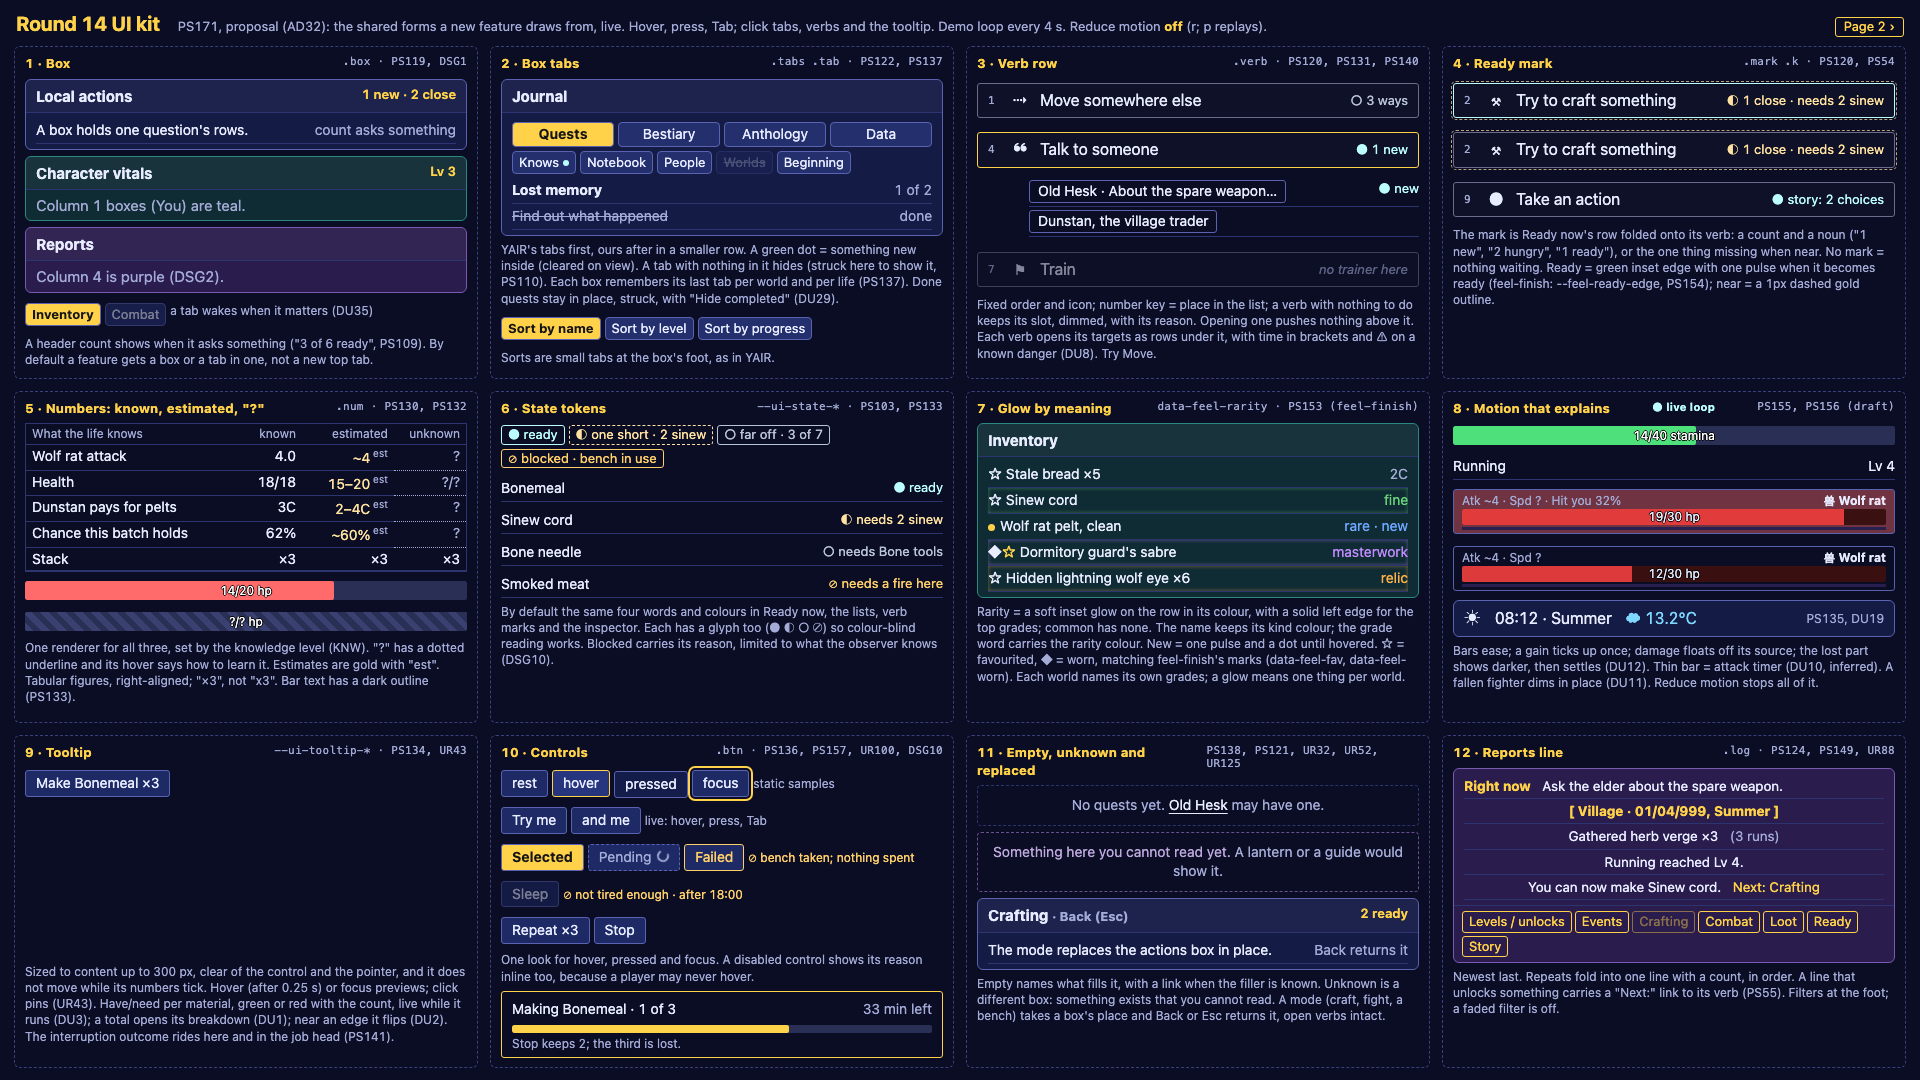
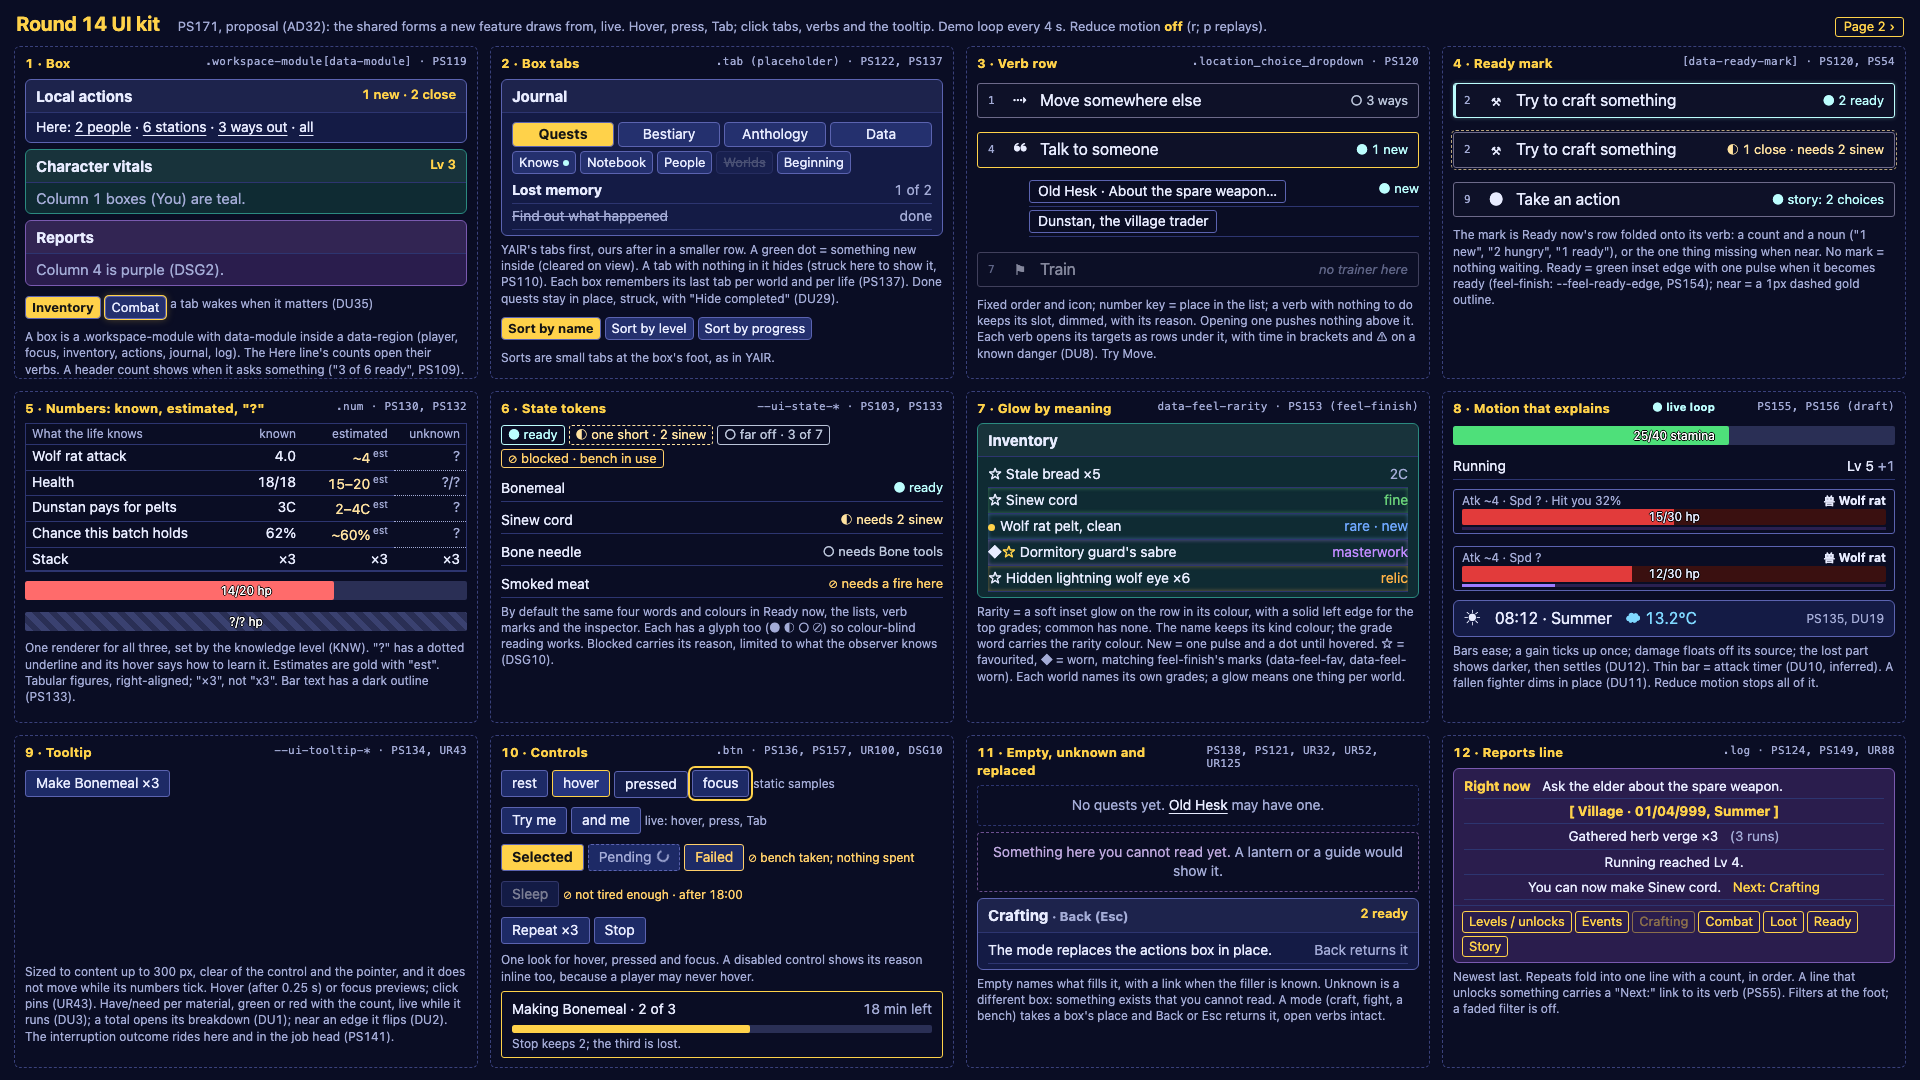
UI kit uses ui-cohesion's names: .workspace-module[data-module] in data-region, .location_choice_dropdown verb rows with data-ready-mark drawn as ::after, .nearby-here-line with data-here-link, .here-chip; box tabs stay a placeholder until slice 4

diff --git a/prototypes/ui-kit-2026-11-15/index.html b/prototypes/ui-kit-2026-11-15/index.html
@@ -49,6 +49,14 @@ main { position:absolute; top:46px; left:14px; right:14px; bottom:12px; display:
 .verb.open { border-color:var(--gold); }
 .verb.dim { opacity:.55; } .verb.dim .mark { color:var(--muted); font-style:italic; }
 .sub { margin:-1px 0 5px 52px; } .act { border:1px solid var(--line); border-radius:3px; padding:1px 8px; }
+/* ui-cohesion's real names (2026-11-15): a verb row is .location_choice_dropdown plus .choice_<verb>; open adds
+   .location_choice_dropdown_expanded; the mark is data-ready-mark with data-ready-mark-state, drawn as ::after. */
+.location_choice_dropdown[data-ready-mark]::after { content:attr(data-ready-mark); margin-left:auto; font-size:13px; }
+.location_choice_dropdown[data-ready-mark-state="ready"]::after { color:var(--k-ready); content:"● " attr(data-ready-mark); }
+.location_choice_dropdown[data-ready-mark-state="near"]::after { color:var(--k-near); content:"◐ " attr(data-ready-mark); }
+.location_choice_dropdown[data-ready-mark-state="far"]::after { color:var(--k-far); content:"○ " attr(data-ready-mark); }
+.location_choice_dropdown[data-ready-mark-state="reason"]::after { color:var(--muted); font-style:italic; }
+.nearby-here-line { font-size:14px; } .nearby-here-line button { font:inherit; color:var(--text); background:none; border:0; padding:0; text-decoration:underline; text-underline-offset:3px; cursor:pointer; }
 /* Ready marks and state tokens (PS103, PS133): word and colour together, so colour is not the sole signal. */
 .k { font-size:13px; } .k.ready { color:var(--k-ready); } .k.near { color:var(--k-near); } .k.far { color:var(--k-far); } .k.blocked { color:var(--k-blocked); }
 .k.ready::before { content:"● "; } .k.near::before { content:"◐ "; } .k.far::before { content:"○ "; } .k.blocked::before { content:"⊘ "; }
@@ -161,15 +169,15 @@ main[hidden] { display:none; } .pager { margin-left:auto; color:var(--gold); bor
 <header><h1>Round 14 UI kit</h1><span>PS171, proposal (AD32): the shared forms a new feature draws from, live. Hover, press, Tab; click tabs, verbs and the tooltip. Demo loop every 4 s. Reduce motion <b id="rmstate">off</b> (r; p replays).</span><span class="pager" id="pager" tabindex="0">Page 2 ›</span></header>
 <main id="p1">
 
-<section class="cell"><h2>1 · Box <code>.box · PS119, DSG1</code></h2>
-  <div class="box"><h3><span>Local actions</span><small>1 new · 2 close</small></h3><div class="body"><div class="row"><span>A box holds one question's rows.</span><span class="m">count asks something</span></div></div></div>
-  <div class="box teal"><h3><span>Character vitals</span><small>Lv 3</small></h3><div class="body m">Column 1 boxes (You) are teal.</div></div>
-  <div class="box rep"><h3><span>Reports</span><small></small></h3><div class="body m">Column 4 is purple (DSG2).</div></div>
+<section class="cell"><h2>1 · Box <code>.workspace-module[data-module] · PS119</code></h2>
+  <div data-region="actions"><div class="box workspace-module" data-module="location_actions"><h3><span>Local actions</span><small>1 new · 2 close</small></h3><div class="body"><div class="nearby-here-line">Here: <button data-here-link="people">2 people</button> · <button data-here-link="services">6 stations</button> · <button data-here-link="exits">3 ways out</button> · <button data-here-link="all">all</button></div></div></div></div>
+  <div class="box teal workspace-module" data-module="player" data-region="player"><h3><span>Character vitals</span><small>Lv 3</small></h3><div class="body m">Column 1 boxes (You) are teal.</div></div>
+  <div class="box rep workspace-module" data-module="log" data-region="log"><h3><span>Reports</span><small></small></h3><div class="body m">Column 4 is purple (DSG2).</div></div>
   <div class="tabs"><span class="tab sm on">Inventory</span><span class="tab sm wake" id="wakeTab">Combat</span><span class="m" style="font-size:12px">a tab wakes when it matters (DU35)</span></div>
-  <div class="cap">A header count shows when it asks something ("3 of 6 ready", PS109). By default a feature gets a box or a tab in one, not a new top tab.</div>
+  <div class="cap">A box is a .workspace-module with data-module inside a data-region (player, focus, inventory, actions, journal, log). The Here line's counts open their verbs. A header count shows when it asks something ("3 of 6 ready", PS109). By default a feature gets a box or a tab in one, not a new top tab.</div>
 </section>
 
-<section class="cell"><h2>2 · Box tabs <code>.tabs .tab · PS122, PS137</code></h2>
+<section class="cell"><h2>2 · Box tabs <code>.tab (placeholder) · PS122, PS137</code></h2>
   <div class="box"><h3><span>Journal</span><small></small></h3><div class="body">
     <div class="tabs" data-tabs="j"><span class="tab on" tabindex="0" data-t="q">Quests</span><span class="tab" tabindex="0" data-t="b">Bestiary</span><span class="tab" tabindex="0" data-t="a">Anthology</span><span class="tab" tabindex="0" data-t="d">Data</span></div>
     <div class="tabs" data-tabs="j"><span class="tab sm" tabindex="0" data-t="k">Knows<span class="dot"></span></span><span class="tab sm" tabindex="0" data-t="n">Notebook</span><span class="tab sm" tabindex="0" data-t="p">People</span><span class="tab sm hidden">Worlds</span><span class="tab sm" tabindex="0" data-t="g">Beginning</span></div>
@@ -187,19 +195,19 @@ main[hidden] { display:none; } .pager { margin-left:auto; color:var(--gold); bor
   <div class="cap">Sorts are small tabs at the box's foot, as in YAIR.</div>
 </section>
 
-<section class="cell"><h2>3 · Verb row <code>.verb · PS120, PS131, PS140</code></h2>
-  <div class="verb" tabindex="0" data-open="mv"><span class="key">1</span><span class="ic">⇢</span><span>Move somewhere else</span><span class="mark k far">3 ways</span></div>
+<section class="cell"><h2>3 · Verb row <code>.location_choice_dropdown · PS120</code></h2>
+  <div class="location_choice_dropdown choice_move verb" tabindex="0" data-open="mv" data-ready-mark="3 ways" data-ready-mark-state="far"><span class="key">1</span><span class="ic">⇢</span><span>Move somewhere else</span></div>
   <div class="sub" data-sub="mv" hidden><div class="row"><span class="act" tabindex="0">Infested field <span class="danger" title="Wolf rats seen here">⚠</span></span><span class="m">[15 min]</span></div><div class="row"><span class="act" tabindex="0">Tingen</span><span class="m">[crossing]</span></div></div>
-  <div class="verb open" tabindex="0" data-open="tk"><span class="key">4</span><span class="ic">❝</span><span>Talk to someone</span><span class="mark k ready">1 new</span></div>
+  <div class="location_choice_dropdown choice_talk verb open location_choice_dropdown_expanded" tabindex="0" data-open="tk" data-ready-mark="1 new" data-ready-mark-state="ready"><span class="key">4</span><span class="ic">❝</span><span>Talk to someone</span></div>
   <div class="sub" data-sub="tk"><div class="row"><span class="act" tabindex="0">Old Hesk · About the spare weapon…</span><span class="k ready">new</span></div><div class="row"><span class="act" tabindex="0">Dunstan, the village trader</span><span class="m"></span></div></div>
-  <div class="verb dim" tabindex="0" aria-disabled="true"><span class="key">7</span><span class="ic">⚑</span><span>Train</span><span class="mark">no trainer here</span></div>
+  <div class="location_choice_dropdown choice_train verb dim" tabindex="0" aria-disabled="true" data-ready-mark="no trainer here" data-ready-mark-state="reason"><span class="key">7</span><span class="ic">⚑</span><span>Train</span></div>
   <div class="cap">Fixed order and icon; number key = place in the list; a verb with nothing to do keeps its slot, dimmed, with its reason. Opening one pushes nothing above it. Each verb opens its targets as rows under it, with time in brackets and ⚠ on a known danger (DU8). Try Move.</div>
 </section>
 
-<section class="cell"><h2>4 · Ready mark <code>.mark .k · PS120, PS54</code></h2>
-  <div class="verb ready" id="pulseA" tabindex="0"><span class="key">2</span><span class="ic">⚒</span><span>Try to craft something</span><span class="mark k ready" id="readyMark">2 ready</span></div>
-  <div class="verb near"><span class="key">2</span><span class="ic">⚒</span><span>Try to craft something</span><span class="mark k near">1 close · needs 2 sinew</span></div>
-  <div class="verb"><span class="key">9</span><span class="ic">●</span><span>Take an action</span><span class="mark k ready">story: 2 choices</span></div>
+<section class="cell"><h2>4 · Ready mark <code>[data-ready-mark] · PS120, PS54</code></h2>
+  <div class="location_choice_dropdown choice_craft verb ready" id="pulseA" tabindex="0" data-ready-mark="2 ready" data-ready-mark-state="ready"><span class="key">2</span><span class="ic">⚒</span><span>Try to craft something</span></div>
+  <div class="location_choice_dropdown choice_craft verb near" data-ready-mark="1 close · needs 2 sinew" data-ready-mark-state="near"><span class="key">2</span><span class="ic">⚒</span><span>Try to craft something</span></div>
+  <div class="location_choice_dropdown choice_action verb" data-ready-mark="story: 2 choices" data-ready-mark-state="ready"><span class="key">9</span><span class="ic">●</span><span>Take an action</span></div>
   <div class="cap">The mark is Ready now's row folded onto its verb: a count and a noun ("1 new", "2 hungry", "1 ready"), or the one thing missing when near. No mark = nothing waiting. Ready = green inset edge with one pulse when it becomes ready (feel-finish: --feel-ready-edge, PS154); near = a 1px dashed gold outline.</div>
 </section>
 
@@ -216,7 +224,7 @@ main[hidden] { display:none; } .pager { margin-left:auto; color:var(--gold); bor
 </section>
 
 <section class="cell"><h2>6 · State tokens <code>--ui-state-* · PS103, PS133</code></h2>
-  <div><span class="chip k ready">ready</span><span class="chip k near">one short · 2 sinew</span><span class="chip k far">far off · 3 of 7</span><span class="chip k blocked">blocked · bench in use</span></div>
+  <div><span class="chip here-chip k ready">ready</span><span class="chip here-chip k near">one short · 2 sinew</span><span class="chip here-chip k far">far off · 3 of 7</span><span class="chip here-chip k blocked">blocked · bench in use</span></div>
   <div class="row"><span>Bonemeal</span><span class="k ready">ready</span></div>
   <div class="row"><span>Sinew cord</span><span class="k near">needs 2 sinew</span></div>
   <div class="row"><span>Bone needle</span><span class="k far">needs Bone tools</span></div>
@@ -356,7 +364,7 @@ function beat() {
   step++;
   const ready = step % 2 === 1, v = $('pulseA');                       // near -> ready, then back (PS154)
   v.classList.toggle('ready', ready); v.classList.toggle('near', !ready);
-  $('readyMark').className = 'mark k ' + (ready ? 'ready' : 'near'); $('readyMark').textContent = ready ? '2 ready' : '1 close · needs 2 sinew';
+  v.dataset.readyMarkState = ready ? 'ready' : 'near'; v.dataset.readyMark = ready ? '2 ready' : '1 close · needs 2 sinew';
   if (ready) restart(v, 'became');
   $('haveN').textContent = 68 - (step % 4) * 6;
   restart($('pulseB'), 'isnew');                                       // a new item pulses once (PS153)

diff --git a/prototypes/ui-kit-2026-11-15/README.md b/prototypes/ui-kit-2026-11-15/README.md
@@ -18,6 +18,13 @@ It links `styles/ui_tokens.css` for the PS103 state tokens and the tooltip fill.
 Sources: rounds 14 to 16 in the [play surface considerations](../../docs/gm/dispatch/play-surface-2026-11-14/CONSIDERATIONS.md) (PS103, PS109, PS119 to PS157) and the [Discord UI elements review](../../docs/research/yair-upstream/DISCORD_UI_ELEMENTS_REVIEW_2026-11-15.md). Folded in from that review: DU1, DU2, DU3, DU8, DU10, DU11, DU12, DU19, DU20, DU29 and DU35. UI_RULES codes cited: UR32, UR43, UR52, UR100 and UR125.
 
 Open points:
-- Class names (`.box`, `.tab`, `.verb`, `.mark`, `.num`, `.k`) are the mock's. They change to match the frame ui-cohesion builds.
+- Names follow ui-cohesion's frame:
+  - a box is `.workspace-module[data-module]` inside `[data-region]`;
+  - a verb row is `.location_choice_dropdown.choice_<verb>`, with `.location_choice_dropdown_expanded` when open;
+  - the mark is `data-ready-mark` and `data-ready-mark-state`, drawn as `::after`;
+  - the Here line is `.nearby-here-line` with `[data-here-link]` buttons;
+  - chips are `.here-chip`.
+
+  Box tabs stay `.tab` as a placeholder until slice 4 names them. The mock's `.box` and `.verb` classes remain alongside for styling.
 - Glow and motion (cells 4, 7 and 8) follow feel-finish's settled names and link `styles/feel_finish.css`: ready is a green inset edge (`--feel-ready-edge`) with one `feel-ready-pulse`; near is a 1px dashed gold outline; rarity is an inset glow on the row from `--feel-rarity` (`data-feel-rarity`), with no text glow; plus `feel-new-pulse`, `feel-tick-up`, the ☆ and ◆ marks, the hover, press and focus tokens, and `html[data-feel-motion=reduce]` for reduce motion.
 - Quality grade names (fine, rare, masterwork, relic) are placeholders; each world names its own.
